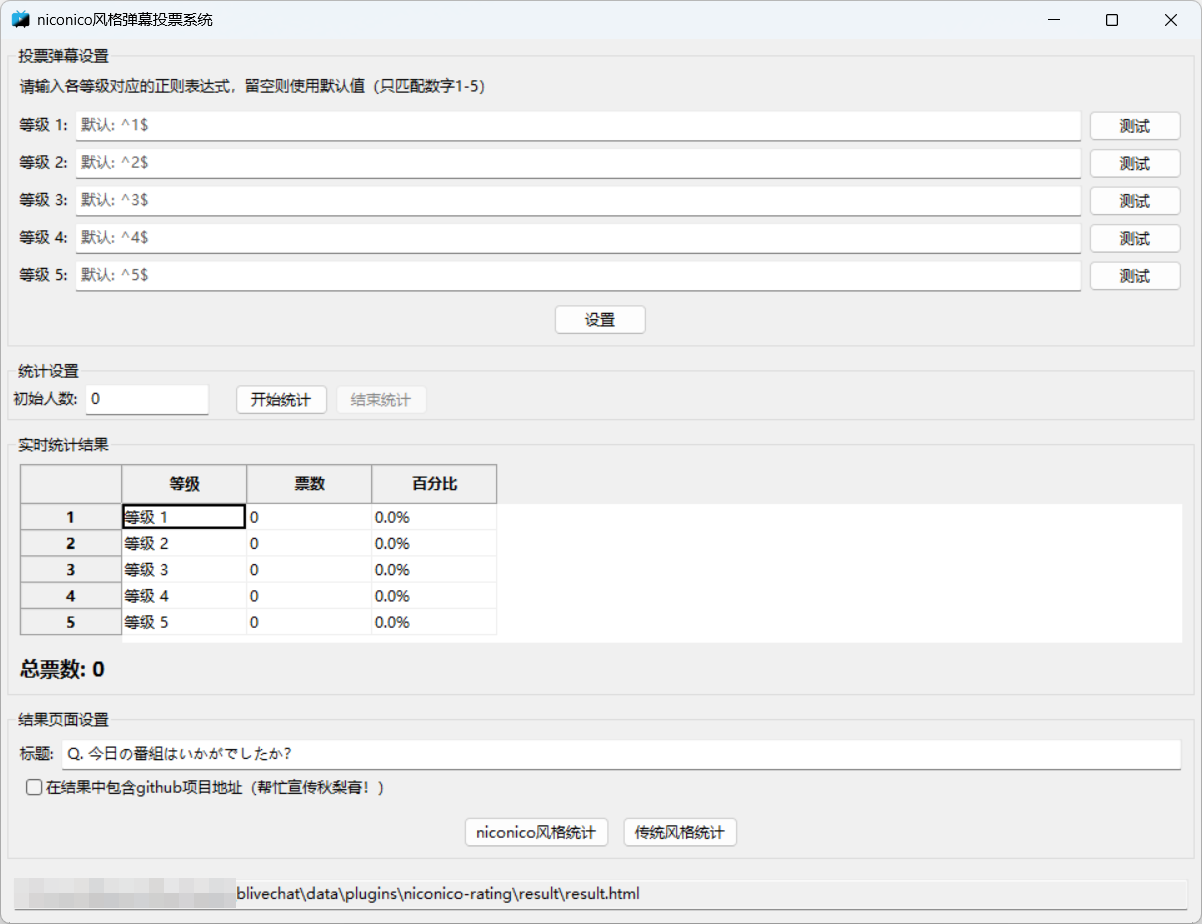
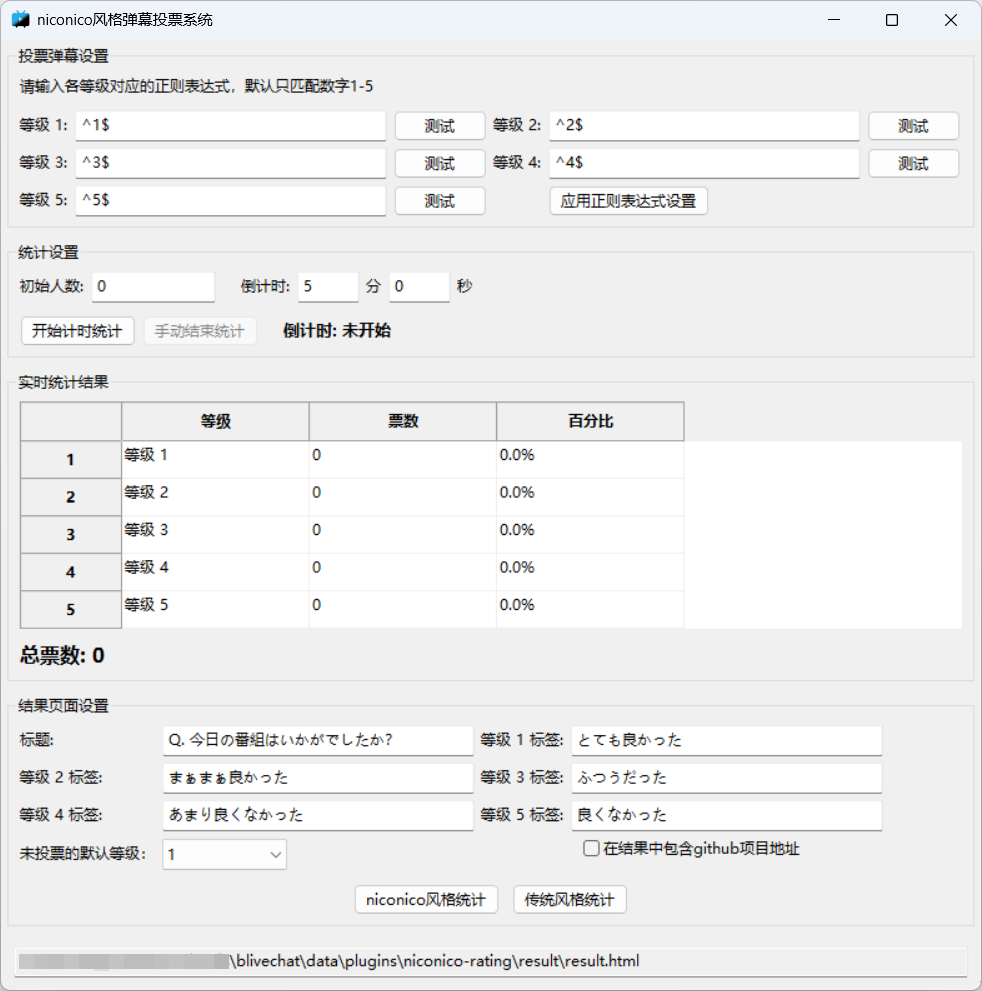
add default level & update readme

diff --git a/gui.py b/gui.py
@@ -190,7 +190,7 @@ class VoteFrame(wx.Frame):
         result_group = wx.StaticBox(panel, label="结果页面设置")
         result_sizer = wx.StaticBoxSizer(result_group, wx.VERTICAL)
         
-        result_grid = wx.FlexGridSizer(3, 4, 5, 5)
+        result_grid = wx.FlexGridSizer(4, 4, 5, 5)
         result_grid.Add(wx.StaticText(panel, label="标题:"), 0, wx.ALIGN_CENTER_VERTICAL)
         self.title_entry = wx.TextCtrl(panel, value="Q. 今日の番組はいかがでしたか？", size=(250, -1))
         result_grid.Add(self.title_entry, 1, wx.EXPAND)
@@ -205,12 +205,18 @@ class VoteFrame(wx.Frame):
             entry = wx.TextCtrl(panel, value=f"{self.label_defaults[level]}", size=(250, -1))
             self.label_entries[level] = entry
             result_grid.Add(entry, 1, wx.EXPAND)
+
+        label = wx.StaticText(panel, label="未投票的默认等级：")
+        result_grid.Add(label, 0, wx.ALIGN_CENTER_VERTICAL)
+        self.default_level_entry = wx.ComboBox(panel, value="1", choices=["1", "2", "3", "4", "5"], size=(100, -1), style=wx.CB_READONLY)
+        result_grid.Add(self.default_level_entry, 0, wx.ALIGN_CENTER_VERTICAL)
+
+        result_grid.AddStretchSpacer()
+        self.include_repo_checkbox = wx.CheckBox(panel, label="在结果中包含github项目地址")
+        self.include_repo_checkbox.SetValue(False)
+        result_grid.Add(self.include_repo_checkbox, 0, wx.LEFT | wx.BOTTOM, 10)
         
         result_sizer.Add(result_grid, 0, wx.EXPAND | wx.ALL, 5)
-        
-        self.include_repo_checkbox = wx.CheckBox(panel, label="在结果中包含github项目地址（帮忙宣传秋梨膏！）")
-        self.include_repo_checkbox.SetValue(False)
-        result_sizer.Add(self.include_repo_checkbox, 0, wx.LEFT | wx.BOTTOM, 10)
         
         btn_sizer = wx.BoxSizer(wx.HORIZONTAL)
         self.btn_niconico = wx.Button(panel, label="niconico风格统计")
@@ -373,7 +379,7 @@ class VoteFrame(wx.Frame):
             labels.append(label)
         include_repo = self.include_repo_checkbox.GetValue()
         result_exporter.export_result_html(
-            self.title_entry.GetValue(), vote_counts, self.total_count, labels,
+            self.title_entry.GetValue(), vote_counts, self.total_count, int(self.default_level_entry.GetValue()), labels,
             filename=self.result_html_path, mode=mode, include_repo=include_repo
         )
         SilentInfoDialog(self, f"HTML结果已导出\n请在OBS中使用浏览器源查看下方URL\n浏览器源推荐尺寸:900*600\n请注意，浏览器源的尺寸会影响投票结果的显示效果").ShowModal()

diff --git a/result_exporter.py b/result_exporter.py
@@ -1,6 +1,6 @@
 import os
 
-def export_result_html(title, vote_counts, total_count, labels, filename=None, mode="niconico", include_repo=False):
+def export_result_html(title, vote_counts, total_count, default_level, labels, filename=None, mode="niconico", include_repo=False):
     if filename is None:
         result_dir = os.path.abspath("result")
         if not os.path.exists(result_dir):
@@ -10,7 +10,7 @@ def export_result_html(title, vote_counts, total_count, labels, filename=None, m
     sum_raw_votes = sum(vote_counts)
     if mode == "niconico":
         nico_counts = vote_counts.copy()
-        nico_counts[0] = max(total_count - sum(nico_counts[1:]), 0)
+        nico_counts[default_level - 1] = max(total_count - sum(nico_counts[:default_level - 1]) - sum(nico_counts[default_level:]), 0)
         counts = nico_counts
     else:
         counts = vote_counts

diff --git a/README.md b/README.md
@@ -18,10 +18,10 @@
    1. **投票弹幕设置**：可以在此处通过正则表达式设置怎样的弹幕内容会被视作投票。
       - 留空文本框：使用默认值（只匹配数字1-5）
       - 输入自定义正则表达式（注意匹配优先级从高到低）。点击测试按钮测试正则表达式是否合法，点击设置按钮使正则表达式生效
-   2. **统计设置**：在这里设置番剧开播时的初始人数。点击`开始统计`按钮清空之前的数据，并开始收集投票。点击`结束统计`按钮停止收集。注意：一个账号只取他投的**第一张有效票**
+   2. **统计设置**：在这里设置番剧开播时的初始人数。先设置倒计时，点击`开始计时统计`按钮清空之前的数据，并开始收集投票，到设定时间会自动结束统计。倒计时过程中可以点击`手动结束统计`按钮提前停止收集。注意：一个账号只取他投的**第一张有效票**
    3. **实时统计结果**：实时显示各等级实际投票数量和百分比，以及总票数
-   4. **结果页面设置**：可以设置结果页面的标题，以及是否包含本项目的github地址
-      - 点击`niconico风格统计`，会按照niconico风格进行统计结果展示。即：第2-5等级的人数按照实际投票结果展示，等级1的人数按照 $max(初始人数，总票数)-\sum _{i=2}^5第i等级投票人数$ 展示
+   4. **结果页面设置**：可以设置结果页面的标题，各个等级对应的标签，以及未投票的默认等级$L_{default}$
+      - 点击`niconico风格统计`，会按照niconico风格进行统计结果展示。即：其余等级的人数按照实际投票结果展示，等级$L_{default}$的人数按照 $max(初始人数，总票数)-\sum _{i=1, i\neq L_{default}}^{5}num_i$ 展示
       - 点击`传统风格统计`，各等级人数按照实际票数展示
    5. **统计结果的URL**显示在最下方，此URL只与blivechat的绝对路径有关。到OBS中添加`浏览器源`，填入此URL。设置参考如图。OBS添加完后，统计结果如果有更新，则需要在OBS的浏览器源中**手动刷新一下**。
    ![obs](img/obs.png)
@@ -46,10 +46,13 @@
    ```sh
    python test_gui.py
    ```
-- `pyinstaller`打包为可执行
+- `pyinstaller`打包为可执行文件
    ```sh
    pyinstaller -y ./blivechat-niconico-rating.spec
    ```
 
 ## 参考
-参考：[blivechat](https://github.com/xfgryujk/blivechat)
+
+主程序项目：[blivechat](https://github.com/xfgryujk/blivechat)
+
+本项目在实现时参考了主程序项目中的插件代码
